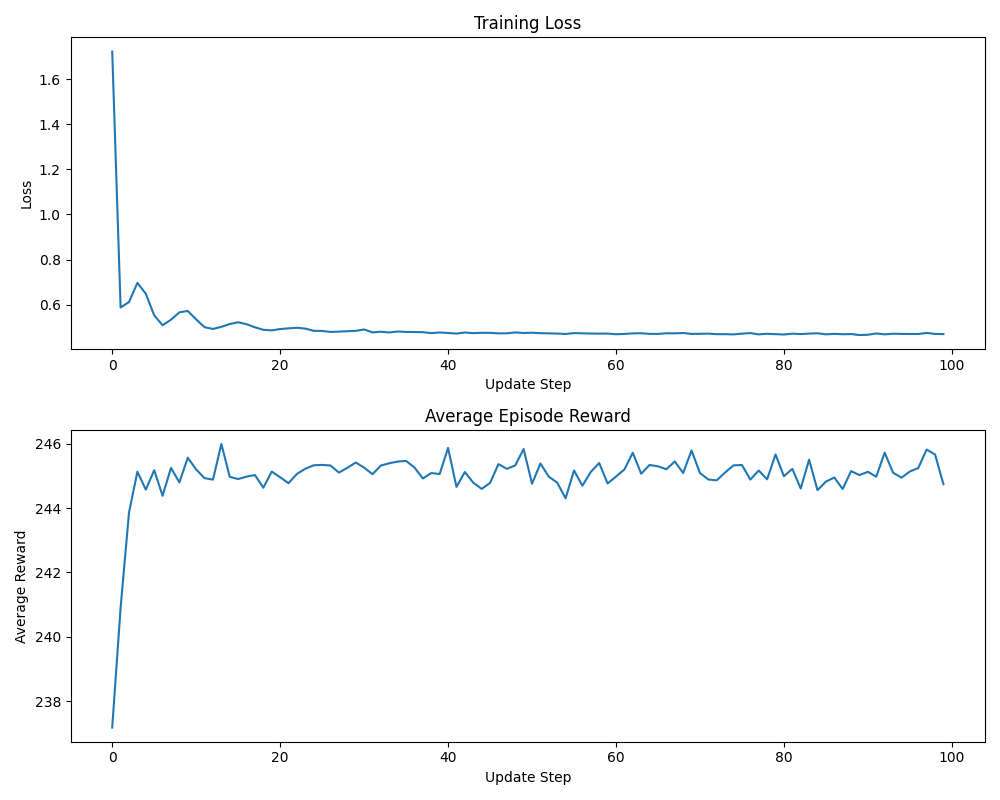
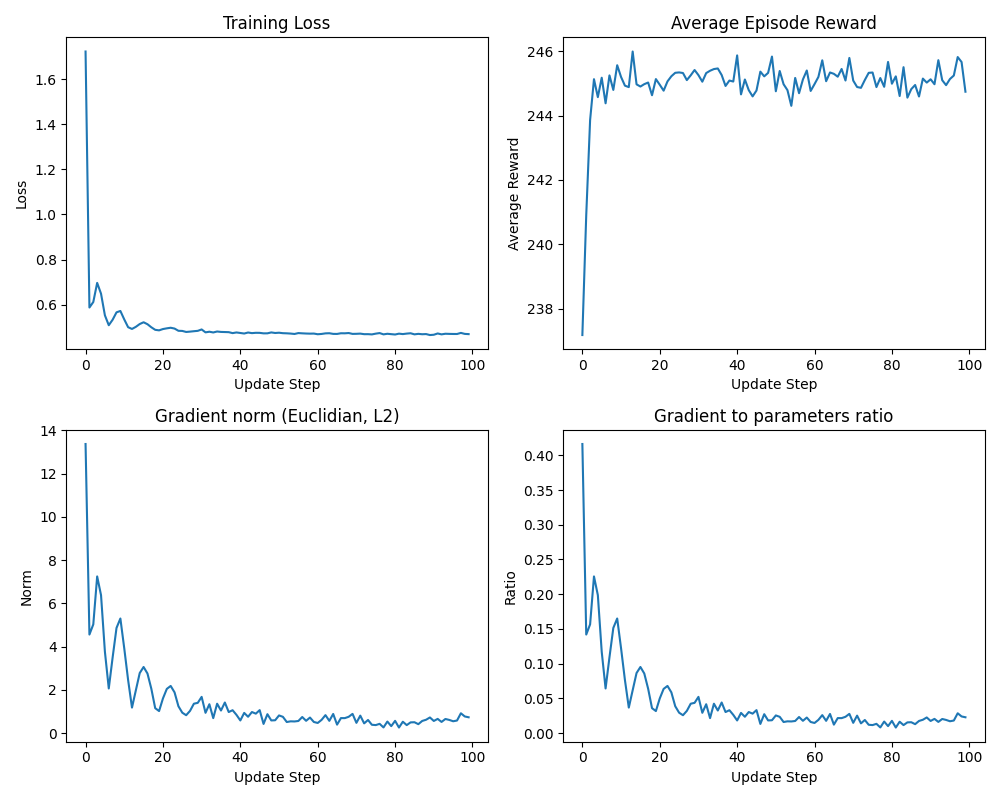
backup

diff --git a/ppo.py b/ppo.py
@@ -154,6 +154,26 @@ def ppo_loss(
 
 ##########################################################################
 
+def grad_metrics(grads, params):
+    leaves = jax.tree_util.tree_leaves(grads)
+
+    #norma euclidiana (L2) do gradiente
+    grad_norm = jnp.sqrt(sum([jnp.sum(jnp.square(g)) for g in leaves]))
+    mean_abs_grad = jnp.mean(jnp.concatenate([jnp.ravel(jnp.abs(g)) for g in leaves]))
+    max_grad = jnp.max(jnp.concatenate([jnp.ravel(jnp.abs(g)) for g in leaves]))
+
+    num = sum([jnp.sum(jnp.square(g)) for g in leaves])
+    den = sum([jnp.sum(jnp.square(p)) for p in jax.tree_util.tree_leaves(params)])
+    grad_to_param_ratio = jnp.sqrt(num / (den + 1e-12))
+
+    return {
+        "grad_norm": grad_norm,
+        "mean_abs_grad": mean_abs_grad,
+        "max_grad": max_grad,
+        "grad_to_param_ratio": grad_to_param_ratio
+    }
+
+##########################################################################
 
 @partial(
     jax.jit,
@@ -267,7 +287,9 @@ def ppo_train(
         new_params = optax.apply_updates(params, updates)
 
         new_carry = (new_params, new_opt_state, final_states, rollout_rng)
-        return new_carry, {"loss": loss_val, "reward": trajectory["final_data"]["reward"]}
+        grad_info = grad_metrics(grads, params)
+
+        return new_carry, {"loss": loss_val, "reward": trajectory["final_data"]["reward"], **grad_info}
 
     # loop principal de trainamento, executado por lax.scan
     final_carry, metrics = jax.lax.scan(

diff --git a/robot_arm.py b/robot_arm.py
@@ -246,7 +246,10 @@ print(f" Training finished! Average loss of last 100 steps: {avg_loss:.4f}")
 avg_rewards_per_update = jnp.mean(metrics["reward"], axis=1)
 avg_episode_rewards = jnp.sum(avg_rewards_per_update, axis=1)
 
-fig, (ax1, ax2) = plt.subplots(2, 1, figsize=(10, 8), tight_layout=True)
+grad_norm = metrics["grad_norm"]
+grad_to_param_ratio = metrics["grad_to_param_ratio"]
+
+fig, ((ax1, ax2), (ax3, ax4)) = plt.subplots(2, 2, figsize=(10, 8), tight_layout=True)
 ax1.plot(metrics["loss"])
 ax1.set_title("Training Loss")
 ax1.set_xlabel("Update Step")
@@ -256,6 +259,17 @@ ax2.plot(avg_episode_rewards)
 ax2.set_title("Average Episode Reward")
 ax2.set_xlabel("Update Step")
 ax2.set_ylabel("Average Reward")
+
+ax3.plot(grad_norm)
+ax3.set_title("Gradient norm (Euclidian, L2)")
+ax3.set_xlabel("Update Step")
+ax3.set_ylabel("Norm")
+
+ax4.plot(grad_to_param_ratio)
+ax4.set_title("Gradient to parameters ratio")
+ax4.set_xlabel("Update Step")
+ax4.set_ylabel("Ratio")
+
 
 plt.savefig("training_plots.png")
 print("\nTraining plots saved to training_plots.png")
